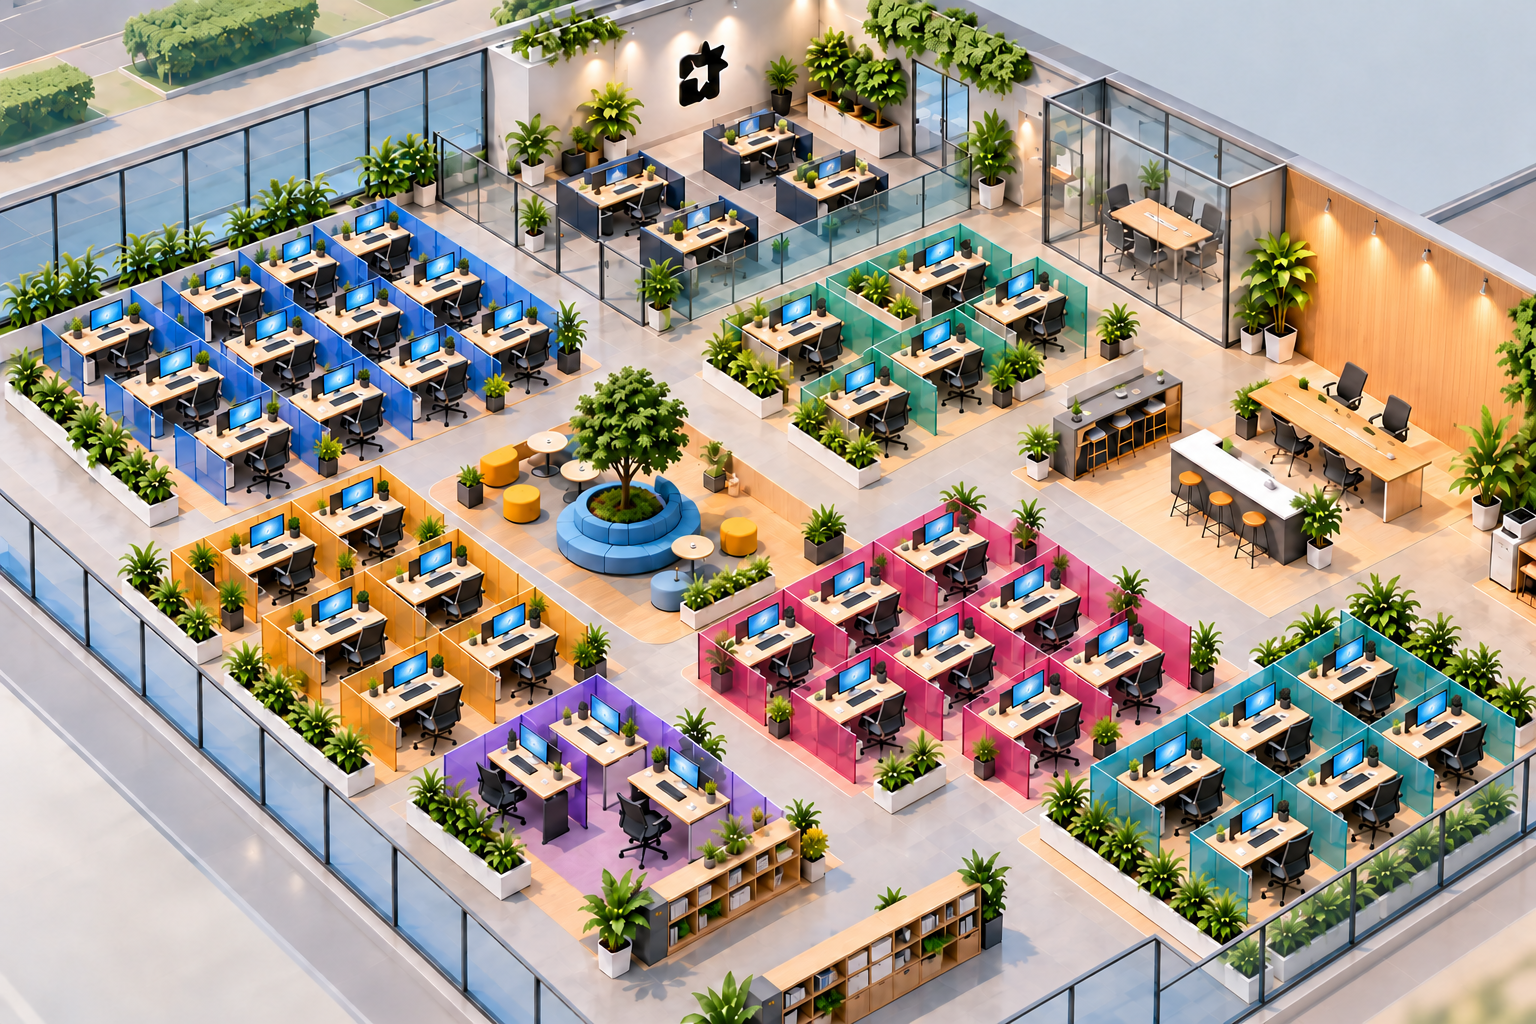
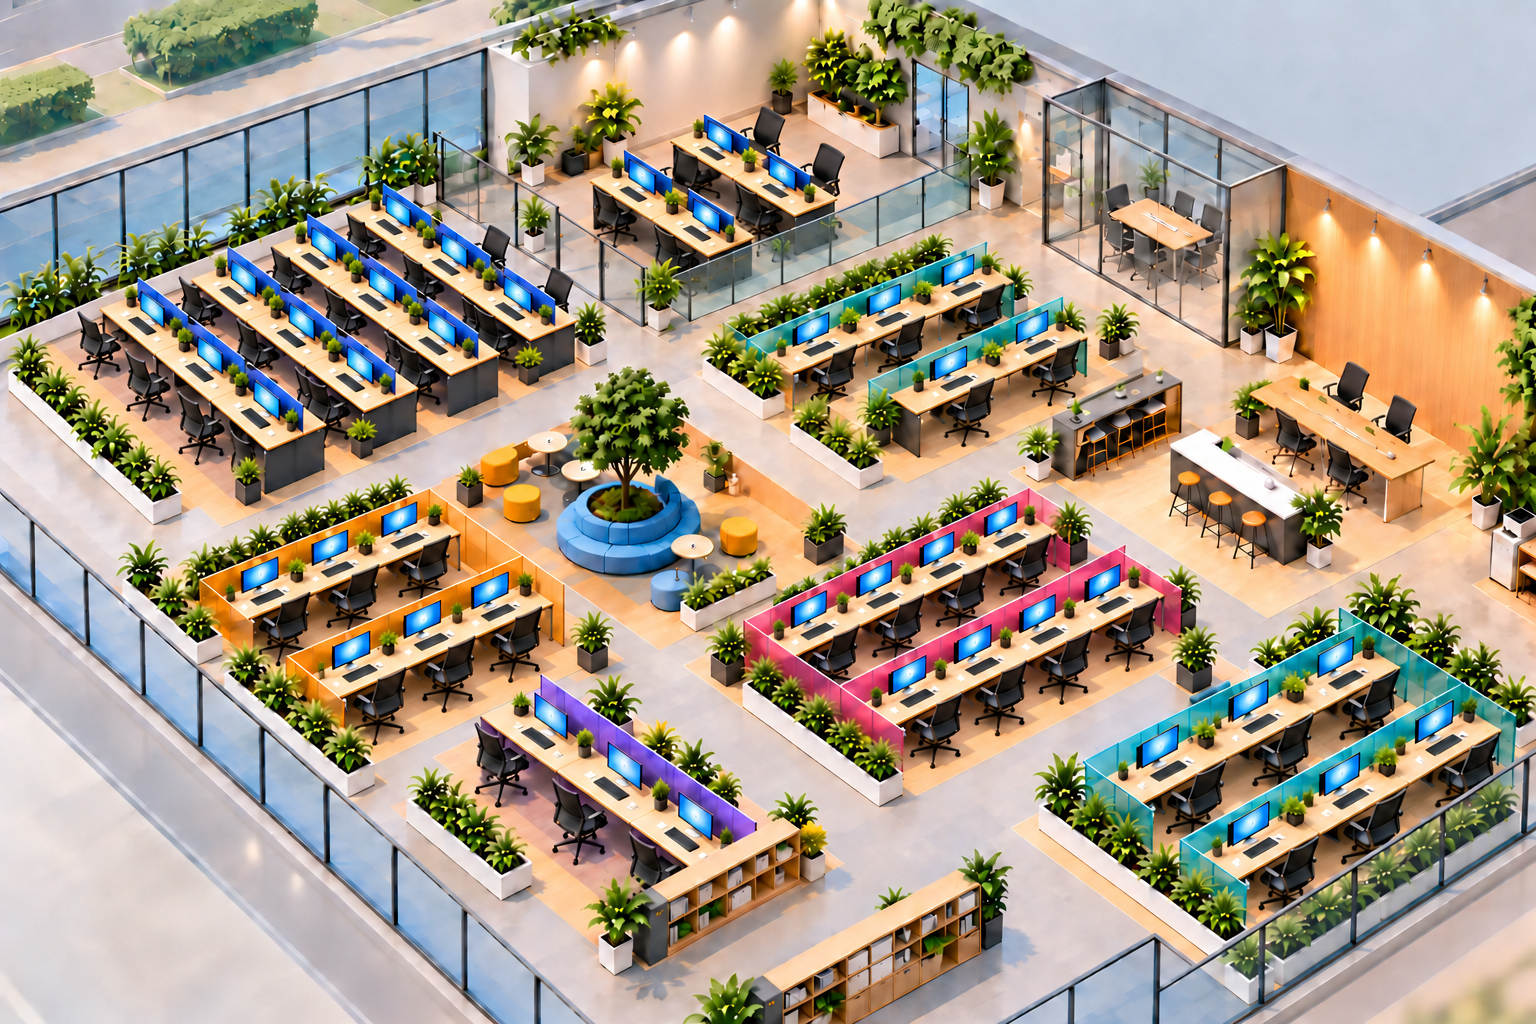
feat(virtual-office): align departmental benches and reverse leadership seating

diff --git a/apps/web/components/virtual-office/isometric-layout.ts b/apps/web/components/virtual-office/isometric-layout.ts
@@ -2,64 +2,67 @@ export const officeArtwork = { width: 1536, height: 1024 };
 // Desk centers are mapped to the cohesive architectural bank artwork.
 export const bankSeats: readonly (readonly [number, number])[][] = [
   [
-    [100, 335],
-    [220, 295],
-    [295, 270],
-    [375, 240],
-    [170, 390],
-    [270, 350],
-    [360, 325],
-    [440, 295],
-    [240, 450],
-    [340, 410],
-    [420, 380],
-    [510, 350],
+    [390, 230],
+    [455, 275],
+    [520, 320],
+    [320, 270],
+    [385, 315],
+    [450, 360],
+    [240, 310],
+    [305, 355],
+    [370, 400],
+    [150, 350],
+    [215, 395],
+    [280, 440],
   ],
   [
-    [790, 335],
-    [935, 275],
-    [1025, 315],
-    [935, 360],
-    [865, 410],
+    [810, 350],
+    [880, 320],
+    [955, 290],
+    [950, 390],
+    [1030, 360],
   ],
   [
-    [265, 560],
-    [355, 520],
-    [440, 585],
-    [335, 630],
-    [415, 690],
-    [510, 640],
+    [260, 600],
+    [330, 570],
+    [405, 540],
+    [350, 675],
+    [425, 645],
+    [500, 615],
   ],
   [
-    [525, 775],
-    [605, 735],
-    [675, 810],
+    [535, 760],
+    [615, 805],
+    [695, 850],
   ],
   [
-    [770, 650],
-    [850, 610],
-    [940, 560],
-    [1030, 610],
-    [860, 710],
-    [950, 670],
-    [1030, 730],
-    [1120, 660],
+    [805, 630],
+    [870, 600],
+    [940, 570],
+    [1005, 540],
+    [910, 705],
+    [975, 675],
+    [1045, 645],
+    [1110, 615],
   ],
   [
-    [1180, 790],
-    [1260, 740],
-    [1350, 690],
-    [1440, 745],
-    [1350, 800],
-    [1270, 850],
+    [1155, 780],
+    [1255, 735],
+    [1345, 690],
+    [1240, 860],
+    [1340, 815],
+    [1430, 770],
   ],
   [
-    [610, 205],
-    [750, 155],
-    [840, 195],
-    [700, 250],
+    [640, 200],
+    [720, 155],
+    [710, 245],
+    [790, 200],
   ],
 ];
+export function avatarFacing(order: number) {
+  return order === 6 ? "front" : order === 0 || order === 3 ? "right" : "back";
+}
 export const departmentAreas = [
   { code: "DEV", count: 12, cols: 4, x: 270, y: 290 },
   { code: "QA", count: 5, cols: 3, x: 905, y: 290 },

diff --git a/apps/web/components/virtual-office/isometric-scene.tsx b/apps/web/components/virtual-office/isometric-scene.tsx
@@ -1,7 +1,7 @@
 import { useEffect, useRef, useState } from "react";
 import type { CSSProperties, KeyboardEvent, PointerEvent } from "react";
 import type { OfficeDesk, OfficeState } from "../../services/virtual-office.service";
-import { departmentAreas, deskLocation, fitOfficeCamera, zoomOfficeCamera } from "./isometric-layout";
+import { avatarFacing, departmentAreas, deskLocation, fitOfficeCamera, zoomOfficeCamera } from "./isometric-layout";
 import type { OfficeCamera } from "./isometric-layout";
 
 export function IsometricOfficeScene({
@@ -213,12 +213,8 @@ export function IsometricOfficeScene({
               >
                 {member?.online && (
                   <img
-                    className="vo-art-person"
-                    src={
-                      member.avatar_style === "female"
-                        ? "/virtual-office/art-v1/seated-avatar-female.png"
-                        : "/virtual-office/art-v1/seated-avatar.png"
-                    }
+                    className={`vo-art-person vo-person-${avatarFacing(department.order)}`}
+                    src={`/virtual-office/art-v1/seated-avatar${member.avatar_style === "female" ? "-female" : ""}${avatarFacing(department.order) === "front" ? "-front" : ""}.png`}
                     alt=""
                     draggable={false}
                   />

diff --git a/apps/web/components/virtual-office/office.css b/apps/web/components/virtual-office/office.css
@@ -1503,3 +1503,16 @@
 .vo-art-zone {
   transform: translate(-50%, -50%);
 }
+.vo-art-person {
+  left: 47px;
+  top: 17px;
+}
+.vo-person-right {
+  left: -12px;
+  top: 12px;
+  transform: scaleX(-1);
+}
+.vo-person-front {
+  left: 48px;
+  top: -28px;
+}
